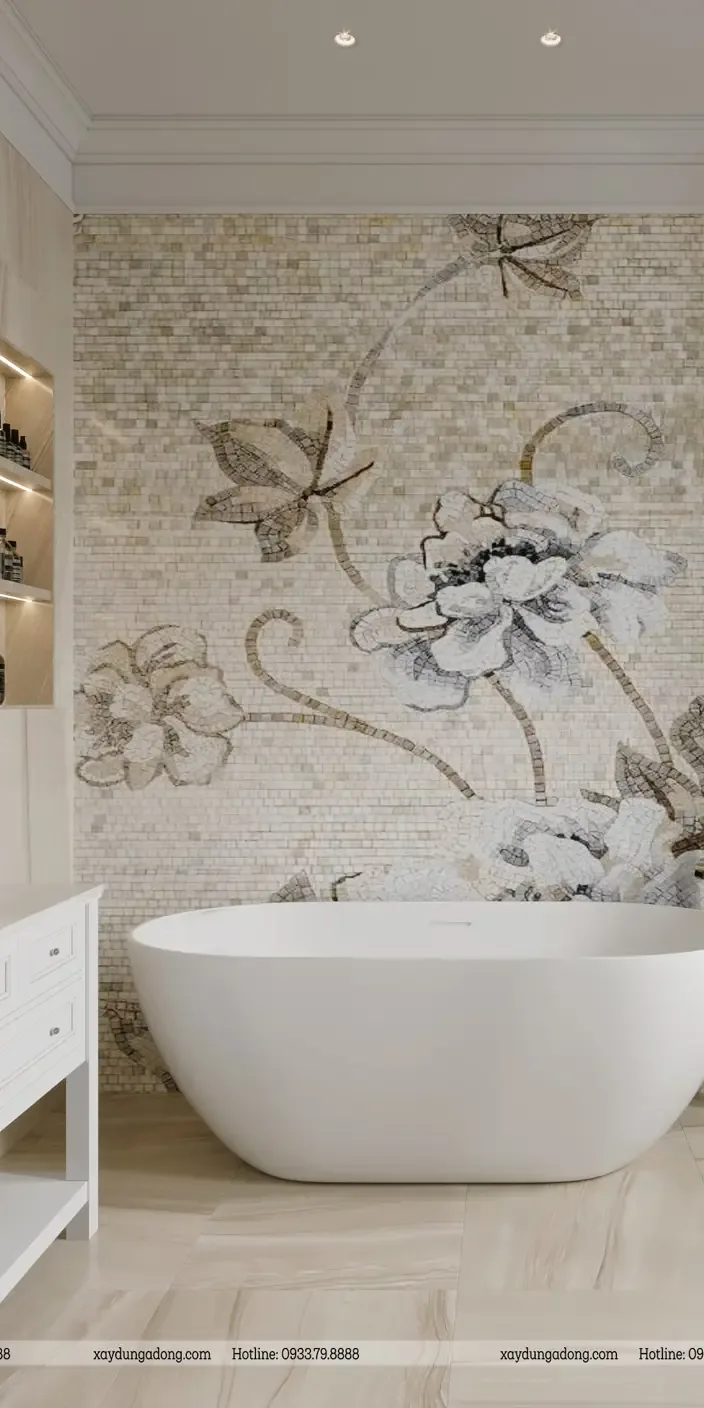
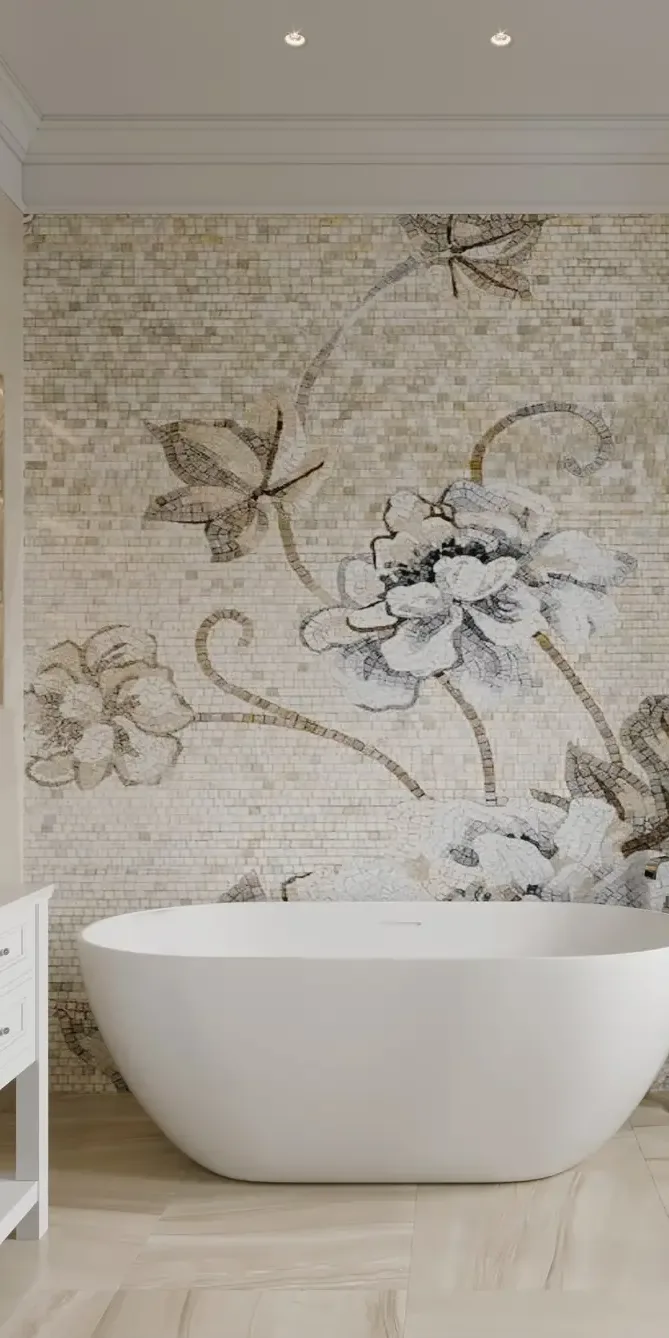
Doors: wide, deep shots of the rooms behind

diff --git a/index.html b/index.html
@@ -202,7 +202,7 @@
           <article class="door">
             <button class="door-frame" aria-pressed="false" aria-label="Mở cửa ra vào chống cháy">
               <span class="door3d" style="--ar:255/640;--l:7.8%;--t:4.5%;--r:7.5%">
-                <span class="d-room"><img src="img/door-room-fire.webp?v=2" alt="" loading="lazy"></span>
+                <span class="d-room"><img src="img/door-room-fire.webp?v=3" alt="" loading="lazy"></span>
                 <span class="d-leaf"><img src="img/door-fire-leaf-hd.webp?v=2" alt="" loading="lazy"></span>
                 <img class="d-frame" src="img/door-fire-frame-hd.webp?v=2" alt="Cửa ra vào chống cháy" loading="lazy">
               </span>
@@ -212,7 +212,7 @@
           <article class="door">
             <button class="door-frame" aria-pressed="false" aria-label="Mở cửa thông phòng">
               <span class="door3d" style="--ar:191/535;--l:9.8%;--t:3.5%;--r:10%">
-                <span class="d-room"><img src="img/door-room-room.webp?v=2" alt="" loading="lazy"></span>
+                <span class="d-room"><img src="img/door-room-room.webp?v=3" alt="" loading="lazy"></span>
                 <span class="d-leaf"><img src="img/door-room-leaf-hd.webp" alt="" loading="lazy"></span>
                 <img class="d-frame" src="img/door-room-frame-hd.webp" alt="Cửa thông phòng" loading="lazy">
               </span>
@@ -222,7 +222,7 @@
           <article class="door">
             <button class="door-frame" aria-pressed="false" aria-label="Mở cửa nhà vệ sinh">
               <span class="door3d" style="--ar:279/624;--l:8%;--t:4.2%;--r:8.8%">
-                <span class="d-room"><img src="img/door-room-wc.webp?v=2" alt="" loading="lazy"></span>
+                <span class="d-room"><img src="img/door-room-wc.webp?v=3" alt="" loading="lazy"></span>
                 <span class="d-leaf"><img src="img/door-wc-leaf-hd.webp" alt="" loading="lazy"></span>
                 <img class="d-frame" src="img/door-wc-frame-hd.webp" alt="Cửa nhà vệ sinh" loading="lazy">
               </span>

diff --git a/_build/build.py b/_build/build.py
@@ -7,9 +7,9 @@ from markupsafe import Markup, escape
 O = os.path.dirname(os.path.dirname(os.path.abspath(__file__)))
 # door photos and 3D offsets, in the order of products.doors
 DOORS = [
-    {"style": "--ar:255/640;--l:7.8%;--t:4.5%;--r:7.5%", "room": "door-room-fire.webp?v=2", "leaf": "door-fire-leaf-hd.webp?v=2", "frame": "door-fire-frame-hd.webp?v=2"},
-    {"style": "--ar:191/535;--l:9.8%;--t:3.5%;--r:10%", "room": "door-room-room.webp?v=2", "leaf": "door-room-leaf-hd.webp", "frame": "door-room-frame-hd.webp"},
-    {"style": "--ar:279/624;--l:8%;--t:4.2%;--r:8.8%", "room": "door-room-wc.webp?v=2", "leaf": "door-wc-leaf-hd.webp", "frame": "door-wc-frame-hd.webp"},
+    {"style": "--ar:255/640;--l:7.8%;--t:4.5%;--r:7.5%", "room": "door-room-fire.webp?v=3", "leaf": "door-fire-leaf-hd.webp?v=2", "frame": "door-fire-frame-hd.webp?v=2"},
+    {"style": "--ar:191/535;--l:9.8%;--t:3.5%;--r:10%", "room": "door-room-room.webp?v=3", "leaf": "door-room-leaf-hd.webp", "frame": "door-room-frame-hd.webp"},
+    {"style": "--ar:279/624;--l:8%;--t:4.2%;--r:8.8%", "room": "door-room-wc.webp?v=3", "leaf": "door-wc-leaf-hd.webp", "frame": "door-wc-frame-hd.webp"},
 ]
 
 env = Environment(loader=FileSystemLoader(os.path.join(O, "_build")), autoescape=True, keep_trailing_newline=True,
